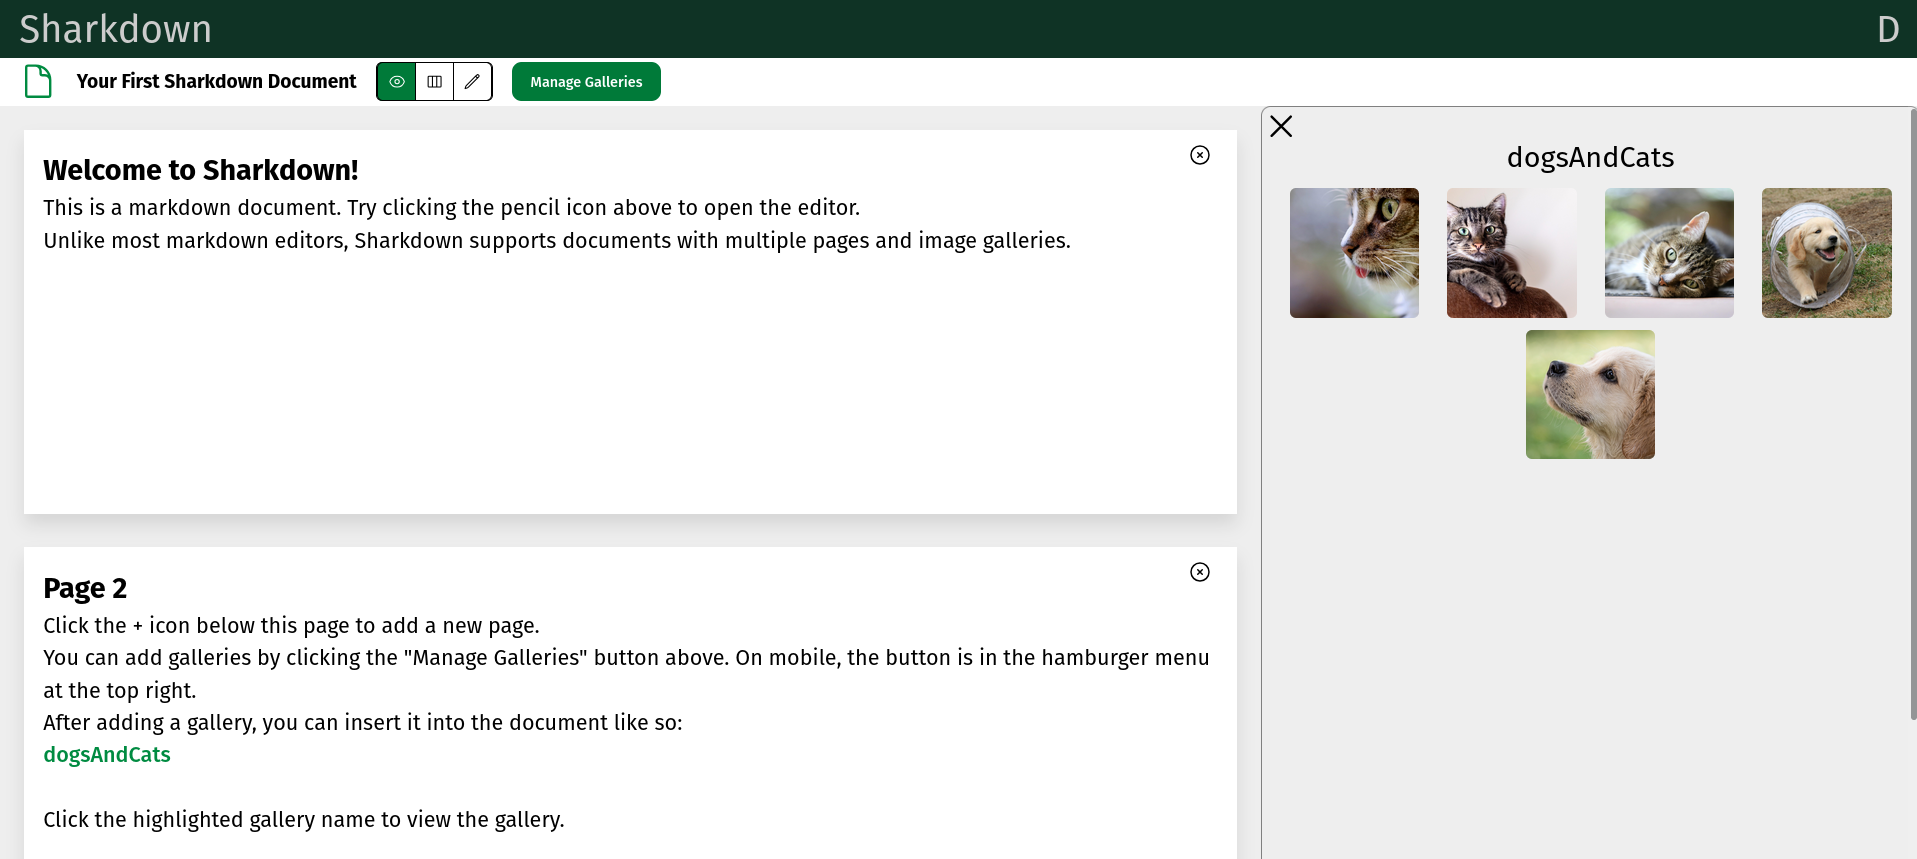
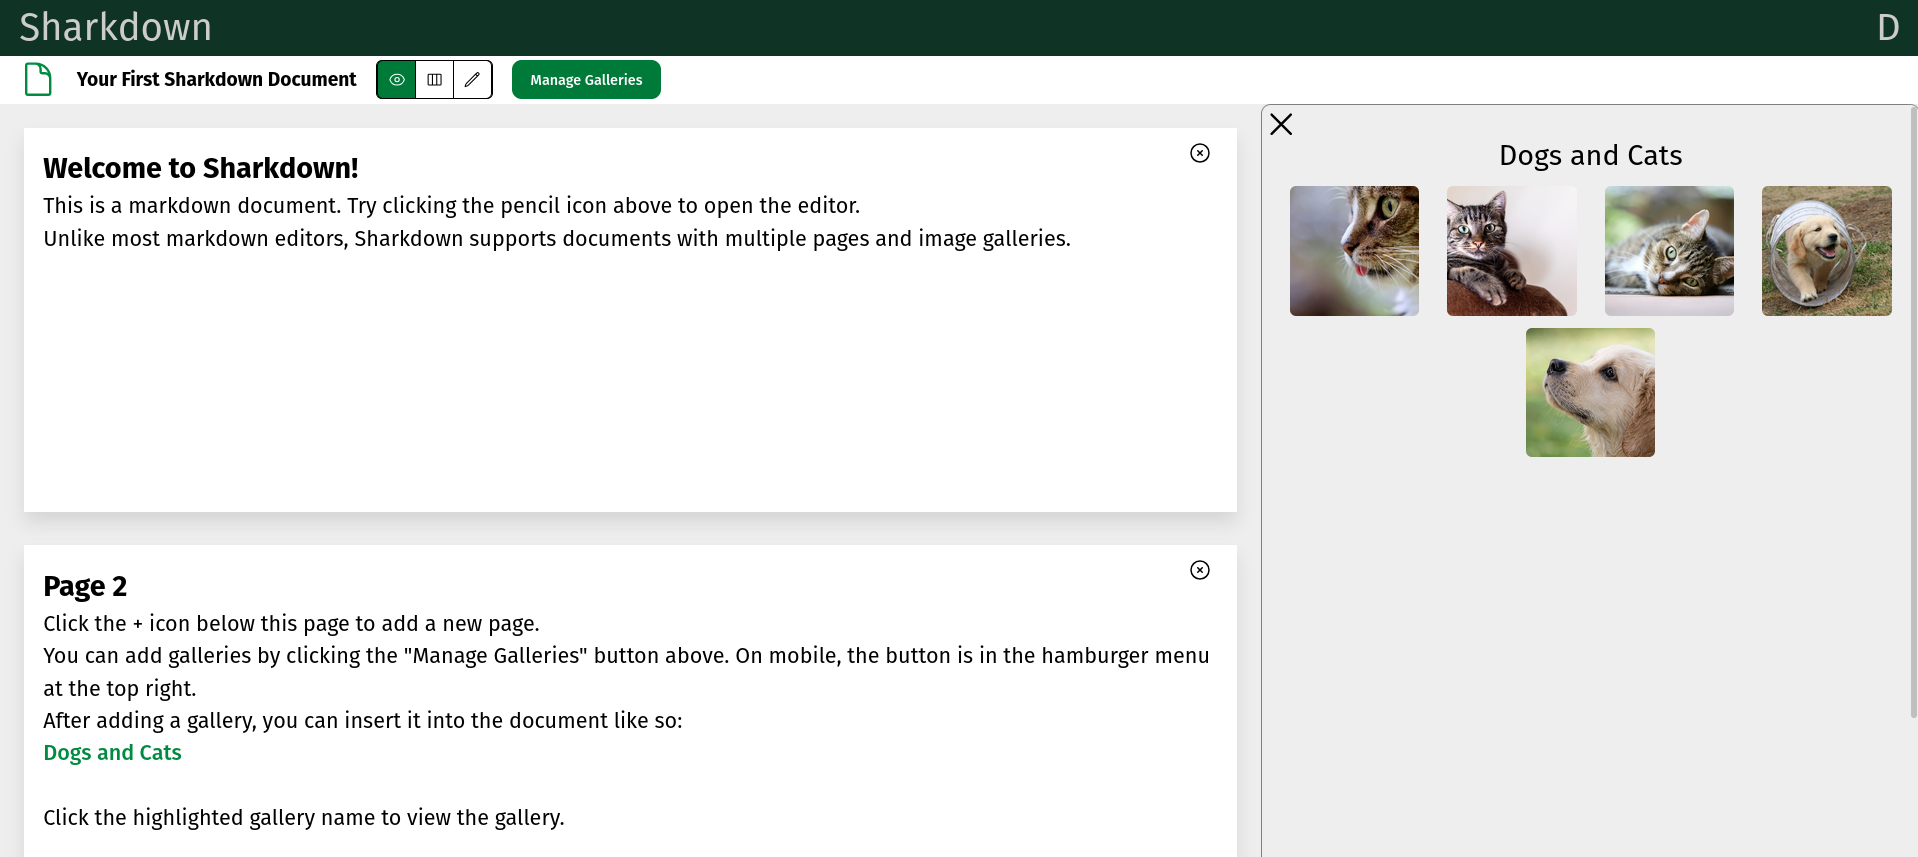
55 Support spaces in gallery markdown function

diff --git a/backend/auth.ts b/backend/auth.ts
@@ -67,7 +67,7 @@ export const setupAuthEndpoints = (app: Express, JWT_SECRET: string): void => {
       page2.content = WelcomeDocumentPage2;
       updatePage(page2);
       const newGallery = createOrUpdateGallery(
-        new GalleryCreationRequest("dogsAndCats", newDocument.id)
+        new GalleryCreationRequest("Dogs and Cats", newDocument.id)
       );
       if (!newGallery?.id) {
         res.status(201).json(SuccessResponse);

diff --git a/frontend/src/components/MarkdownDisplay.vue b/frontend/src/components/MarkdownDisplay.vue
@@ -27,7 +27,8 @@ const emit = defineEmits<{
   (event: "galleryClicked", value: string): void;
   (event: "page-deletion-requested", value: number): void;
 }>();
-const galleryRegex = /gallery\(([\w-]+)\)/g;
+
+const galleryRegex = /gallery\(\s*([\w\s-]+?)\s*\)/g;
 const markdownContainer = ref<HTMLElement | null>(null);
 
 const compiledMarkdown = computed(() => {

diff --git a/backend/constants/welcomeDocument.ts b/backend/constants/welcomeDocument.ts
@@ -14,7 +14,7 @@ On mobile, the button is in the hamburger menu at the top right.
 
 After adding a gallery, you can insert it into the document like so:
 
-gallery(dogsAndCats)
+gallery(Dogs and Cats)
 <br><br>
 Click the highlighted gallery name to view the gallery.
 `;
